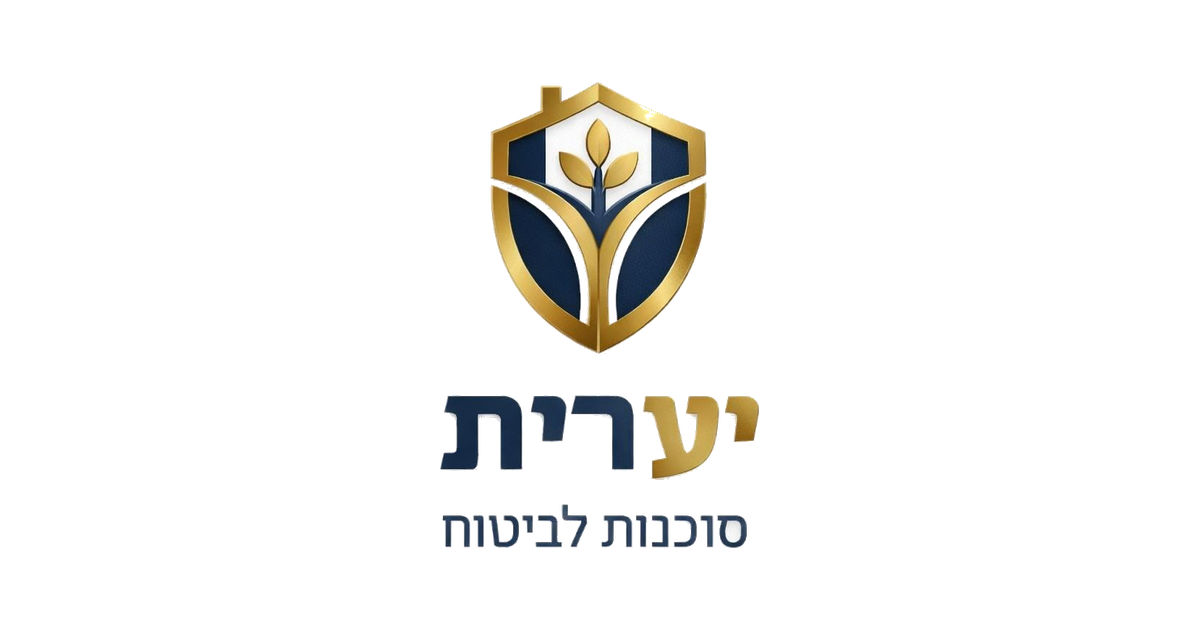
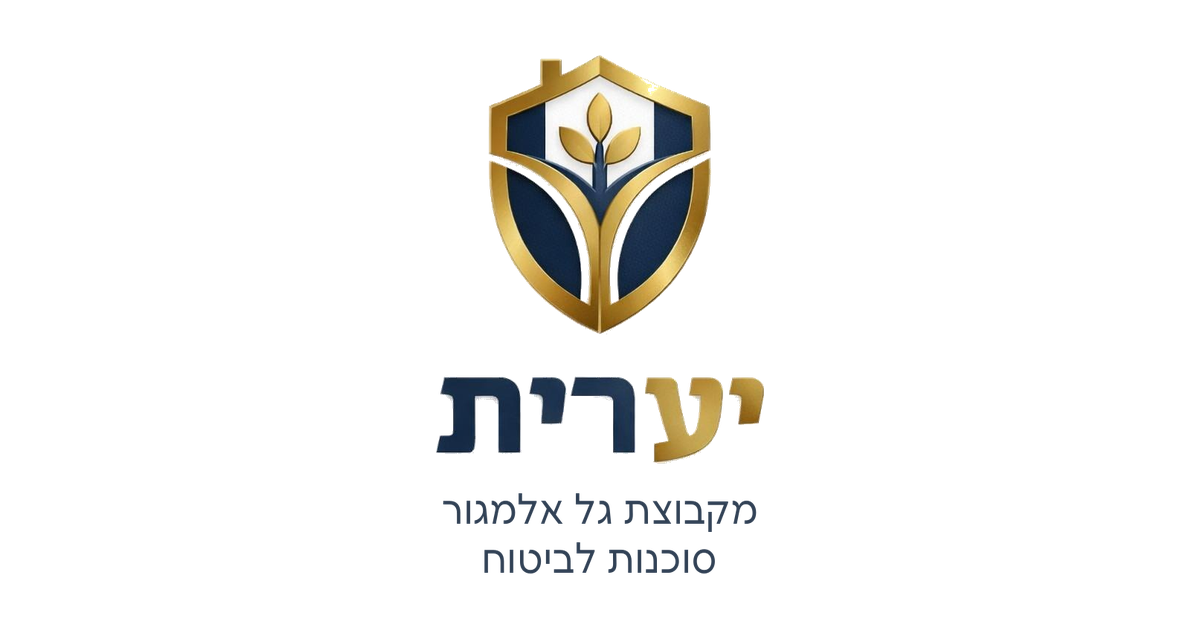
Use the business's full name everywhere: יערית מקבוצת גל אלמגור סוכנות לביטוח
The owner's ruling (2026-10-07): the name used for legal purposes is "יערית" followed by
"מקבוצת גל אלמגור סוכנות לביטוח", never one without the other.

- lib/site.ts: legalName and brand are the full name, so the footer copyright line, the
  legal pages' intros, page titles, the WhatsApp and email invites, the email sender name and
  the home case's agency name all carry it.
- Page titles and descriptions, the JSON-LD InsuranceAgency and WebSite names, the web app
  manifest, the hero badge and opening line, the about copy, the insurance pages' contact card,
  the admin bar and every logo alt text use the full name.
- Logo: the subline is now "מקבוצת גל אלמגור סוכנות לביטוח" in one line (horizontal, header
  and footer), set in Coherenti Regular like the previous subline, at the same size so it stays
  legible at 54 px; the stacked logo and the link preview (opengraph-image) carry it on two
  centred lines. Built from Yarit's own shield and wordmark by scripts/build_name_lockups.py.
- Header and footer image ratio 990 x 246.

Checked: tsc, next build, 127 tests, desktop and phone screenshots of /, /about,
/insurance/car, /privacy and /forms/claim (no sideways scroll).

Changed region(s): [[0.3392, 0.0905, 0.6475, 0.754], [0.37, 0.7841, 0.6475, 0.9349]]

diff --git a/app/about/page.tsx b/app/about/page.tsx
@@ -8,13 +8,13 @@ import { SITE, TEL_HREF, FOOTER_INSURANCE } from "@/lib/site";
 
 export const metadata: Metadata = {
   alternates: { canonical: "/about" },
-  title: "אודות · גל אלמגור יערית · שלומי",
+  title: "אודות · יערית מקבוצת גל אלמגור סוכנות לביטוח",
   description:
-    "גל אלמגור יערית — סוכנות הביטוח של שלומי והגליל המערבי, חברה בקבוצת גל אלמגור. ליווי אישי לתיק הביטוח של משפחות ועסקים.",
+    "יערית מקבוצת גל אלמגור סוכנות לביטוח: הסוכנות של שלומי והגליל המערבי, חברה בקבוצת גל אלמגור. ליווי אישי לתיק הביטוח של משפחות ועסקים.",
   openGraph: {
-    title: "אודות · גל אלמגור יערית · שלומי",
+    title: "אודות · יערית מקבוצת גל אלמגור סוכנות לביטוח",
     description:
-      "סוכנות הביטוח של שלומי והגליל המערבי — ליווי אישי לתיק הביטוח של משפחות ועסקים.",
+      "יערית מקבוצת גל אלמגור סוכנות לביטוח: ליווי אישי לתיק הביטוח של משפחות ועסקים בשלומי ובגליל המערבי.",
     type: "article",
     locale: "he_IL",
   },
@@ -61,7 +61,7 @@ export default function AboutPage() {
             סוכנות מקומית בשלומי, <em>עם הגב של קבוצה ארצית.</em>
           </h1>
           <p className="info-hero__intro">
-            גל אלמגור יערית היא סוכנות הביטוח של שלומי והסביבה — פנים מוכרות, איש
+            יערית מקבוצת גל אלמגור סוכנות לביטוח היא הסוכנות של שלומי והסביבה: פנים מוכרות, איש
             קשר אחד וליווי אישי לאורך כל חיי התיק. אנחנו חברה בקבוצת גל אלמגור,
             ומשלבים קרבה מקומית עם ליווי מקצועי מלא בכל תחומי הביטוח והפיננסים.
           </p>
@@ -86,10 +86,10 @@ export default function AboutPage() {
               <div>
                 <h2 className="info-section__title">הסוכנות שלנו בשלומי</h2>
                 <p className="info-section__body">
-                  יערית היא הבית הביטוחי של משפחות ועסקים בשלומי ובגליל המערבי.
-                  אנחנו יושבים בקניון שלומי (תצפית), במרחק שיחה אחת, ומאמינים
-                  שביטוח טוב מתחיל בהיכרות אישית — לא במוקד מתחלף ולא בטפסים בלי
-                  סוף.
+                  יערית מקבוצת גל אלמגור סוכנות לביטוח היא הבית הביטוחי של משפחות ועסקים בשלומי ובגליל
+                  המערבי. אנחנו יושבים בקניון שלומי (תצפית), במרחק שיחה אחת,
+                  ומאמינים שביטוח טוב מתחיל בהיכרות אישית, לא במוקד מתחלף ולא
+                  בטפסים בלי סוף.
                 </p>
                 <p className="info-section__body">
                   כל לקוח מקבל איש קשר אחד שמלווה אותו לאורך השנים: מהפגישה
@@ -140,7 +140,7 @@ export default function AboutPage() {
             <div className="info-aside__emblem">
               <Image
                 src="/assets/yarit-shield.png"
-                alt="סמל הסוכנות יערית"
+                alt="סמל יערית מקבוצת גל אלמגור סוכנות לביטוח"
                 width={299}
                 height={376}
               />

diff --git a/lib/insurance-data.ts b/lib/insurance-data.ts
@@ -22,7 +22,7 @@ export const INSURANCE_CONTENT: Record<string, InsuranceContent> = {
     topic: "ביטוח רכב",
     title: "כיסוי מלא לרכב — חובה, מקיף וצד ג׳",
     intro:
-      "ביטוח רכב נועד לכסות את רכבכם כנגד סיכונים שונים, בכפוף לסוג הביטוח שנרכש. בסניף שלומי של גל אלמגור נשווה עבורכם הצעות מכל החברות המובילות ונבנה את התיק שמתאים בדיוק לרכב, לנהגים ולשגרת הנסיעה שלכם.",
+      "ביטוח רכב נועד לכסות את רכבכם כנגד סיכונים שונים, בכפוף לסוג הביטוח שנרכש. ביערית מקבוצת גל אלמגור סוכנות לביטוח, בשלומי, נשווה עבורכם הצעות מכל החברות המובילות ונבנה את התיק שמתאים בדיוק לרכב, לנהגים ולשגרת הנסיעה שלכם.",
     sections: [
       {
         title: "ביטוח רכב מקיף",
@@ -180,7 +180,7 @@ export const INSURANCE_CONTENT: Record<string, InsuranceContent> = {
     topic: "תכנון פרישה",
     title: "פנסיה, גמל וקרנות השתלמות — תחת קורת גג אחת",
     intro:
-      "תכנון פרישה הוא לא רק החלטה על קופה — זה ניתוח של כל המקורות הפנסיוניים שיש לכם היום, אופטימיזציה של דמי הניהול ובניית מסלולים שמתאימים לגיל, לרמת הסיכון ולמועד הפרישה הצפוי. בגל אלמגור נמצא לכם את הצוות והכלים שצריך כדי לעשות את זה נכון.",
+      "תכנון פרישה הוא לא רק החלטה על קופה. זה ניתוח של כל המקורות הפנסיוניים שיש לכם היום, אופטימיזציה של דמי הניהול ובניית מסלולים שמתאימים לגיל, לרמת הסיכון ולמועד הפרישה הצפוי. ביערית מקבוצת גל אלמגור סוכנות לביטוח נמצא לכם את הצוות והכלים שצריך כדי לעשות את זה נכון.",
     sections: [
       {
         title: "קופות גמל",

diff --git a/app/layout.tsx b/app/layout.tsx
@@ -21,11 +21,11 @@ export const metadata: Metadata = {
   // page that does not set its own, and it told Google that /about and all
   // six /insurance/* pages were copies of the home page. Each page declares
   // its own canonical instead (the home page in app/page.tsx).
-  title: "גל אלמגור יערית · סוכנות ביטוח · שלומי",
+  title: "יערית מקבוצת גל אלמגור סוכנות לביטוח · שלומי",
   description:
     "סוכנות ביטוח עצמאית בשלומי, חברה בקבוצת גל אלמגור. ביטוחי רכב, דירה, עסקים, חיים ובריאות, פרישה ופיננסים, בליווי אישי לכל מהלך התיק.",
   openGraph: {
-    title: "גל אלמגור יערית · סוכנות ביטוח · שלומי",
+    title: "יערית מקבוצת גל אלמגור סוכנות לביטוח · שלומי",
     description:
       "סוכנות ביטוח עצמאית בשלומי, חברה בקבוצת גל אלמגור. 40+ שנות ניסיון בליווי משפחות ועסקים בגליל המערבי.",
     type: "website",
@@ -49,8 +49,9 @@ const SITE_GRAPH = {
     {
       "@type": "InsuranceAgency",
       "@id": `${SITE.url}/#org`,
-      name: "גל אלמגור יערית",
-      alternateName: SITE.brand,
+      name: SITE.legalName,
+      legalName: SITE.legalName,
+      alternateName: "יערית",
       url: SITE.url,
       telephone: SITE.phoneE164,
       email: SITE.email,
@@ -71,7 +72,7 @@ const SITE_GRAPH = {
       "@type": "WebSite",
       "@id": `${SITE.url}/#website`,
       url: SITE.url,
-      name: "גל אלמגור יערית",
+      name: SITE.legalName,
       inLanguage: "he",
       publisher: { "@id": `${SITE.url}/#org` },
       creator: {

diff --git a/components/Hero.tsx b/components/Hero.tsx
@@ -6,8 +6,8 @@ export default function Hero() {
       <div className="container hero__inner">
         <div>
           <div className="badge">
-            <span className="badge__tag">קבוצת גל אלמגור</span>
-            <span className="badge__text">סוכנות לביטוח </span>
+            <span className="badge__tag">יערית</span>
+            <span className="badge__text">מקבוצת גל אלמגור סוכנות לביטוח</span>
           </div>
           <h1 className="hero__title">
             הבית הביטוחי
@@ -17,7 +17,7 @@ export default function Hero() {
             <em>המערבי.</em>
           </h1>
           <p className="hero__lede">
-            גל אלמגור הגיעה לשלומי, סניף אשר ילווה לקוחות ובעלי עסקים לאורך כל
+            יערית מקבוצת גל אלמגור סוכנות לביטוח הגיעה לשלומי, סניף אשר ילווה לקוחות ובעלי עסקים לאורך כל
             קו העימות עם מגוון מוצרים ומחירים יחודיים אשר יועדו לתושבי היישובים
             צמודי גדר.
           </p>
@@ -35,7 +35,7 @@ export default function Hero() {
         <div className="hero__art">
           <Image
             src="/assets/office-shlomi.jpg"
-            alt="משרד סוכנות יערית בשלומי — הגליל המערבי"
+            alt="משרד יערית מקבוצת גל אלמגור סוכנות לביטוח בשלומי, הגליל המערבי"
             className="hero__art-img"
             fill
             sizes="(max-width: 920px) 92vw, 45vw"

diff --git a/components/About.tsx b/components/About.tsx
@@ -7,7 +7,7 @@ export default function About() {
         <div className="about__art">
           <Image
             src="/assets/yarit-shield.png"
-            alt="סמל הסוכנות יערית"
+            alt="סמל יערית מקבוצת גל אלמגור סוכנות לביטוח"
             className="about__shield"
             width={299}
             height={376}
@@ -23,7 +23,7 @@ export default function About() {
 
           <div className="about__body">
             <p>
-              גל אלמגור יערית היא סניף מקומי בשלומי של <strong>קבוצת גל אלמגור</strong> — אחת מקבוצות סוכנויות הביטוח המובילות בצפון. אנחנו משלבים את הקרבה האישית של סוכנות שכונתית עם היכולת המקצועית, המיקוח והכיסוי של קבוצה ארצית.
+              יערית מקבוצת גל אלמגור סוכנות לביטוח היא הסניף המקומי בשלומי של <strong>קבוצת גל אלמגור</strong>, אחת מקבוצות סוכנויות הביטוח המובילות בצפון. אנחנו משלבים את הקרבה האישית של סוכנות שכונתית עם היכולת המקצועית, המיקוח והכיסוי של קבוצה ארצית.
             </p>
             <p>
               כל לקוח מקבל איש קשר אחד שמלווה אותו לאורך השנים — מהפגישה הראשונה, דרך חידושים והשוואות, ועד הרגע האמת של תביעה. בלי מוקד מתחלף, בלי טפסים בלי סוף.

diff --git a/app/insurance/[slug]/page.tsx b/app/insurance/[slug]/page.tsx
@@ -7,7 +7,7 @@ import Contact from "@/components/Contact";
 import Quote from "@/components/Quote";
 import { getCase } from "@/lib/forms";
 import { INSURANCE_CONTENT, INSURANCE_SLUGS } from "@/lib/insurance-data";
-import { SIMULATOR_ENABLED, TEL_HREF } from "@/lib/site";
+import { SIMULATOR_ENABLED, SITE, TEL_HREF } from "@/lib/site";
 
 type Params = { slug: string };
 type PageProps = { params: Promise<Params> };
@@ -22,10 +22,10 @@ export async function generateMetadata({ params }: PageProps): Promise<Metadata>
   if (!c) return {};
   return {
     alternates: { canonical: `/insurance/${slug}` },
-    title: `${c.eyebrow} · גל אלמגור יערית · שלומי`,
+    title: `${c.eyebrow} · ${SITE.legalName}`,
     description: c.intro,
     openGraph: {
-      title: `${c.eyebrow} · גל אלמגור יערית · שלומי`,
+      title: `${c.eyebrow} · ${SITE.legalName}`,
       description: c.intro,
       type: "article",
       locale: "he_IL",
@@ -128,7 +128,7 @@ export default async function InsurancePage({ params }: PageProps) {
                 רוצים הצעה מותאמת ל{content.eyebrow}?
               </h3>
               <p className="info-aside__desc">
-                סניף שלומי של גל אלמגור עומד לרשותכם — שיחת ייעוץ ללא עלות
+                {SITE.legalName} עומדת לרשותכם: שיחת ייעוץ ללא עלות
                 והתחייבות, עם איש קשר אישי שמלווה אתכם לאורך כל הדרך.
               </p>
               {calculator ? (

diff --git a/lib/site.ts b/lib/site.ts
@@ -4,11 +4,13 @@
 // so the site is safe to deploy before the numbers are filled in.
 
 export const SITE = {
-  legalName: "גל אלמגור יערית — סוכנות לביטוח",
-  brand: "סוכנות יערית · שלומי",
+  // The business's full name, the one used everywhere for legal purposes (owner, 2026-10-07): the name, then
+  // the group and "סוכנות לביטוח", never one without the other. Messages, emails, titles and the footer all use it.
+  legalName: "יערית מקבוצת גל אלמגור סוכנות לביטוח",
+  brand: "יערית מקבוצת גל אלמגור סוכנות לביטוח",
   group: "קבוצת גל אלמגור",
   tagline:
-    "סוכנות ביטוח עצמאית בשלומי, חברה בקבוצת גל אלמגור — ליווי אישי לתיק הביטוח של משפחות ועסקים בגליל המערבי.",
+    "סוכנות ביטוח עצמאית בשלומי, חברה בקבוצת גל אלמגור. ליווי אישי לתיק הביטוח של משפחות ועסקים בגליל המערבי.",
   domain: "almagor-yaarit.com",
   url: "https://almagor-yaarit.com",
 

diff --git a/app/accessibility/page.tsx b/app/accessibility/page.tsx
@@ -3,9 +3,9 @@ import LegalPage from "@/components/LegalPage";
 import { SITE, TEL_HREF, MAIL_HREF } from "@/lib/site";
 
 export const metadata: Metadata = {
-  title: "הצהרת נגישות · גל אלמגור יערית · שלומי",
+  title: "הצהרת נגישות · יערית מקבוצת גל אלמגור סוכנות לביטוח",
   description:
-    "הצהרת הנגישות של אתר סוכנות הביטוח גל אלמגור יערית — התאמות הנגישות שבוצעו בהתאם לתקן הישראלי ת״י 5568 ולתקנות שוויון זכויות לאנשים עם מוגבלות.",
+    "הצהרת הנגישות של אתר יערית מקבוצת גל אלמגור סוכנות לביטוח: התאמות הנגישות שבוצעו בהתאם לתקן הישראלי ת״י 5568 ולתקנות שוויון זכויות לאנשים עם מוגבלות.",
   alternates: { canonical: "/accessibility" },
 };
 

diff --git a/app/privacy/page.tsx b/app/privacy/page.tsx
@@ -3,9 +3,9 @@ import LegalPage from "@/components/LegalPage";
 import { SITE } from "@/lib/site";
 
 export const metadata: Metadata = {
-  title: "מדיניות פרטיות · גל אלמגור יערית · שלומי",
+  title: "מדיניות פרטיות · יערית מקבוצת גל אלמגור סוכנות לביטוח",
   description:
-    "מדיניות הפרטיות של סוכנות הביטוח גל אלמגור יערית — איזה מידע נאסף באתר, כיצד נעשה בו שימוש, וזכויותיכם לפי חוק הגנת הפרטיות.",
+    "מדיניות הפרטיות של יערית מקבוצת גל אלמגור סוכנות לביטוח: איזה מידע נאסף באתר, כיצד נעשה בו שימוש, וזכויותיכם לפי חוק הגנת הפרטיות.",
   alternates: { canonical: "/privacy" },
 };
 

diff --git a/app/terms/page.tsx b/app/terms/page.tsx
@@ -3,9 +3,9 @@ import LegalPage from "@/components/LegalPage";
 import { SITE } from "@/lib/site";
 
 export const metadata: Metadata = {
-  title: "תקנון ותנאי שימוש · גל אלמגור יערית · שלומי",
+  title: "תקנון ותנאי שימוש · יערית מקבוצת גל אלמגור סוכנות לביטוח",
   description:
-    "תקנון ותנאי השימוש באתר סוכנות הביטוח גל אלמגור יערית — אופי המידע, הגבלת אחריות, קניין רוחני והדין החל.",
+    "תקנון ותנאי השימוש באתר יערית מקבוצת גל אלמגור סוכנות לביטוח: אופי המידע, הגבלת אחריות, קניין רוחני והדין החל.",
   alternates: { canonical: "/terms" },
 };
 

diff --git a/app/admin/layout.tsx b/app/admin/layout.tsx
@@ -19,7 +19,7 @@ export default async function AdminLayout({ children }: { children: React.ReactN
       <header className="adm__bar">
         <Link className="adm__brand" href="/admin">
           <span className="adm__brandname">ניהול טפסים</span>
-          <span className="adm__brandsub">יערית · גל אלמגור</span>
+          <span className="adm__brandsub">יערית מקבוצת גל אלמגור סוכנות לביטוח</span>
         </Link>
         {admin && <AdminNav mslahtkUrl={dashboardProjectUrl()} who={admin.email || admin.sub} />}
       </header>

diff --git a/app/manifest.ts b/app/manifest.ts
@@ -2,7 +2,7 @@ import type { MetadataRoute } from "next";
 
 export default function manifest(): MetadataRoute.Manifest {
   return {
-    name: "סוכנות יערית · ביטוח · שלומי",
+    name: "יערית מקבוצת גל אלמגור סוכנות לביטוח",
     short_name: "יערית",
     description:
       "סוכנות ביטוח עצמאית בשלומי, חברה בקבוצת גל אלמגור. ביטוחי רכב, דירה, עסקים, חיים ובריאות, פרישה ופיננסים.",
